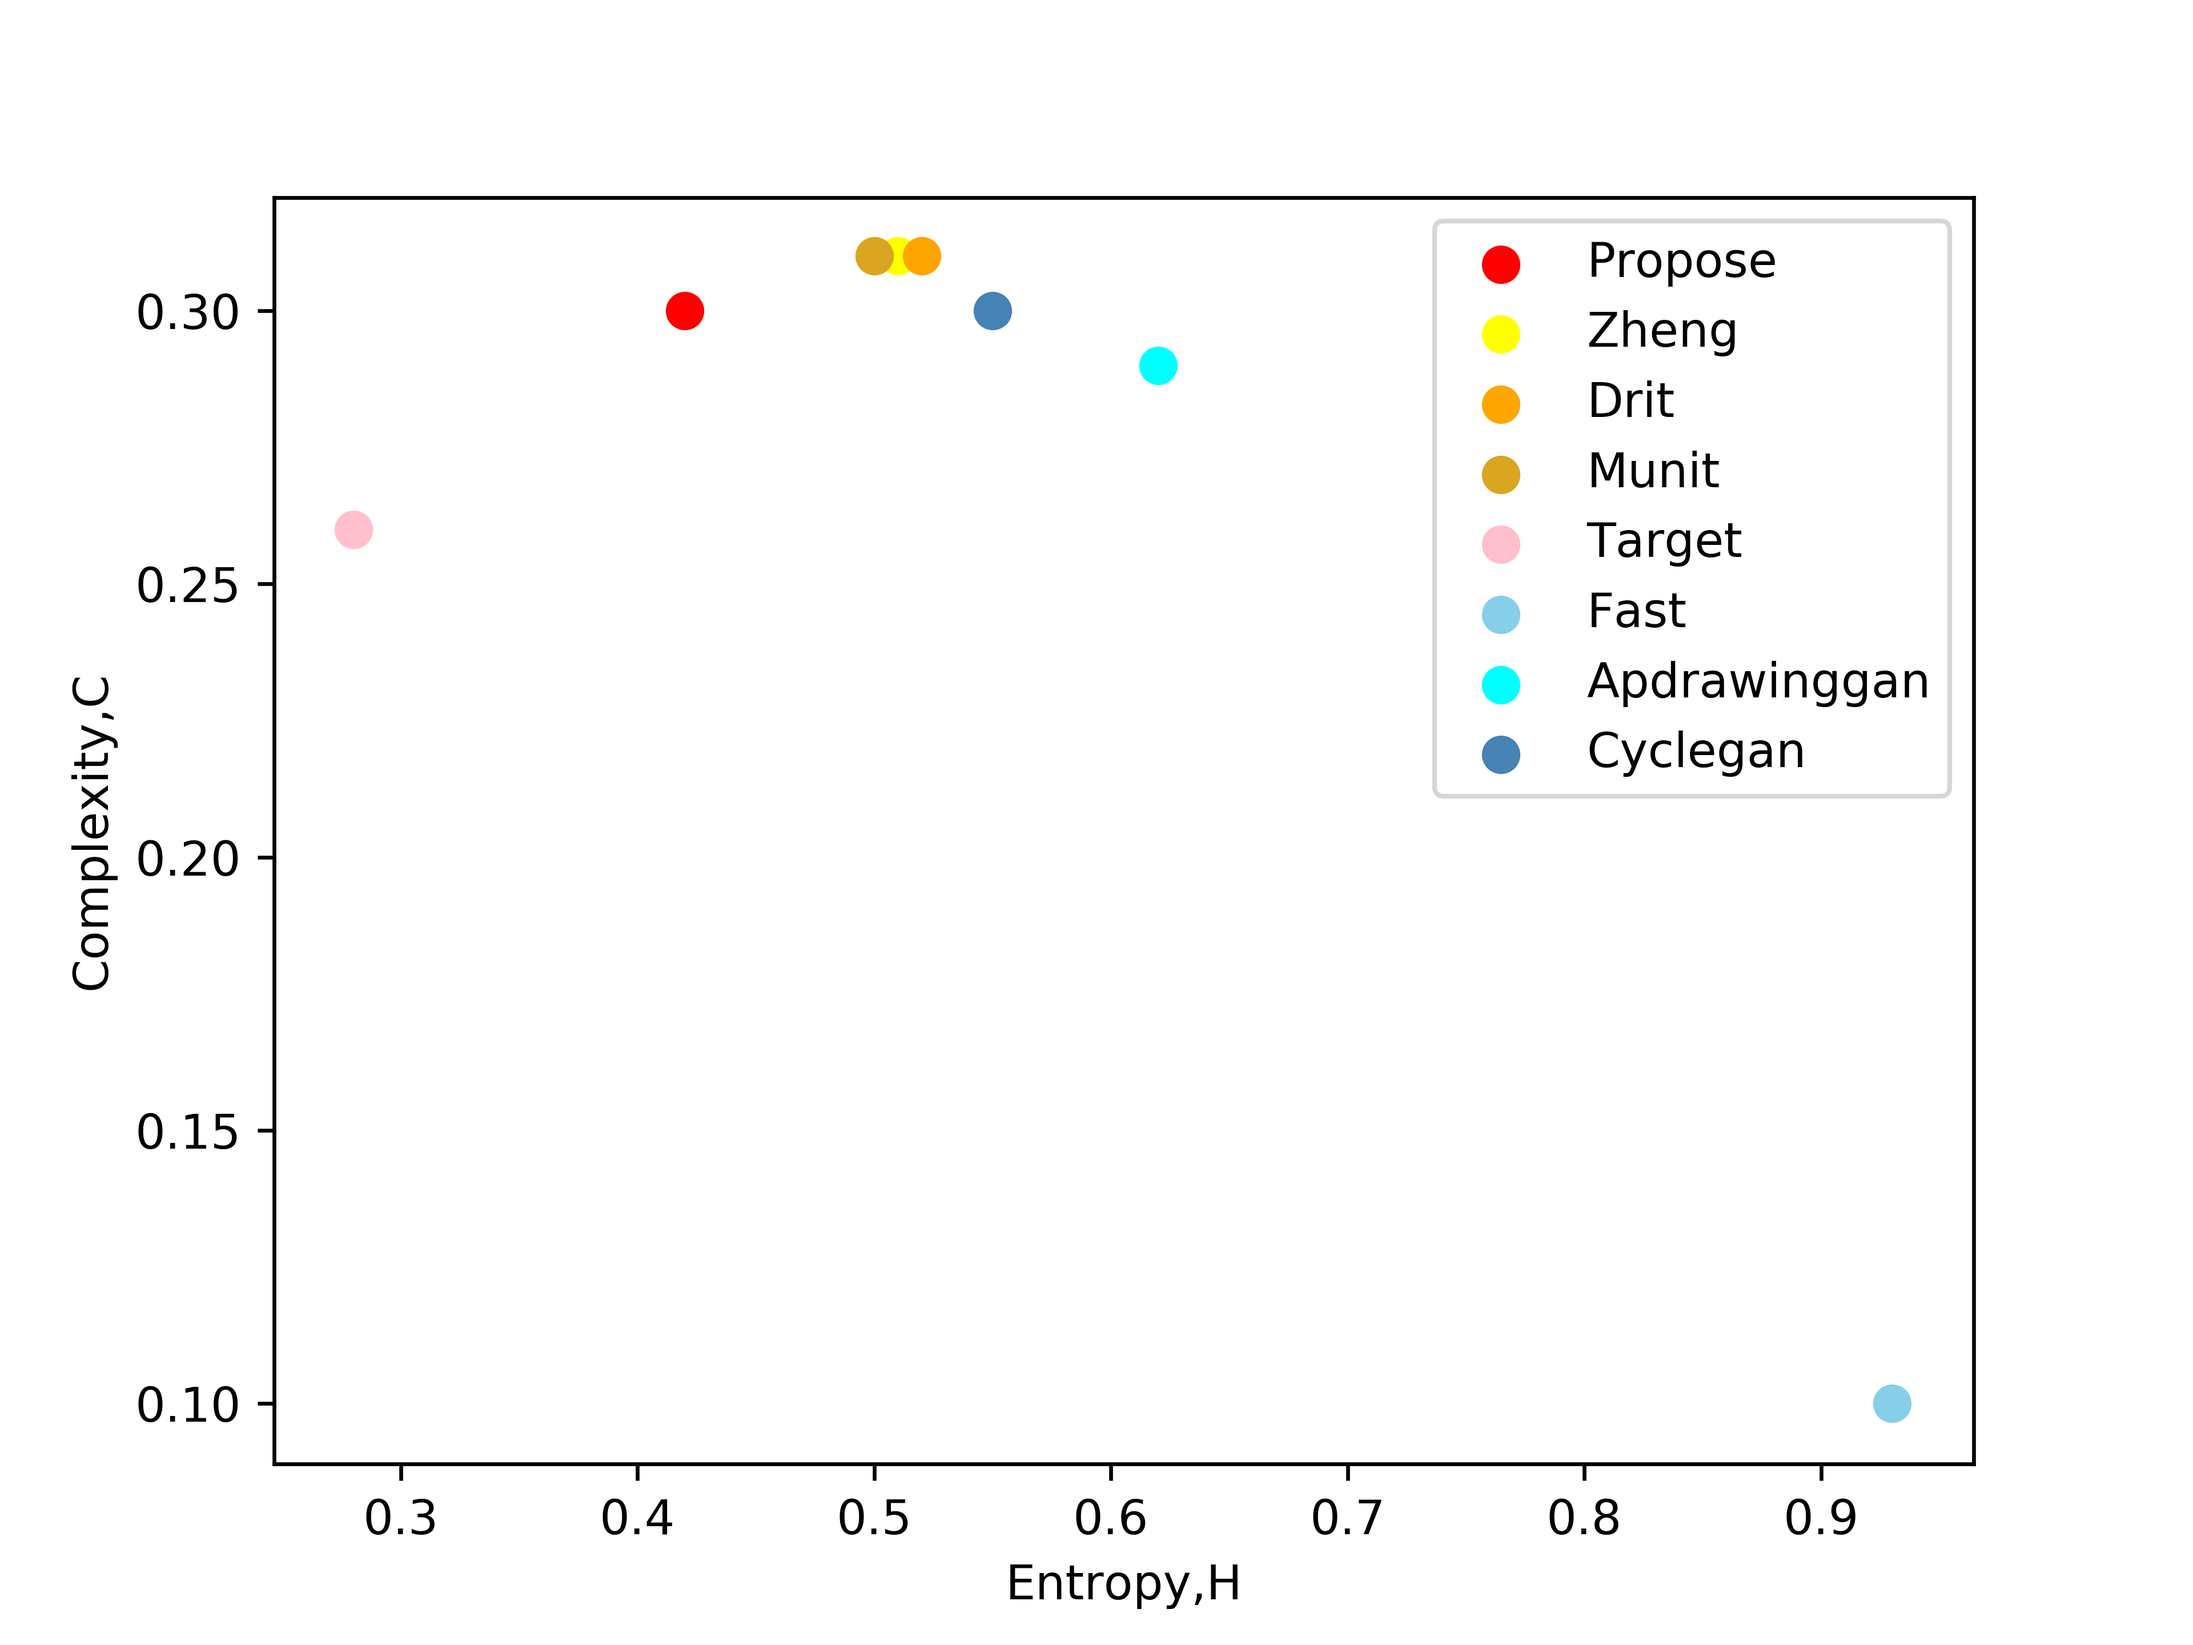
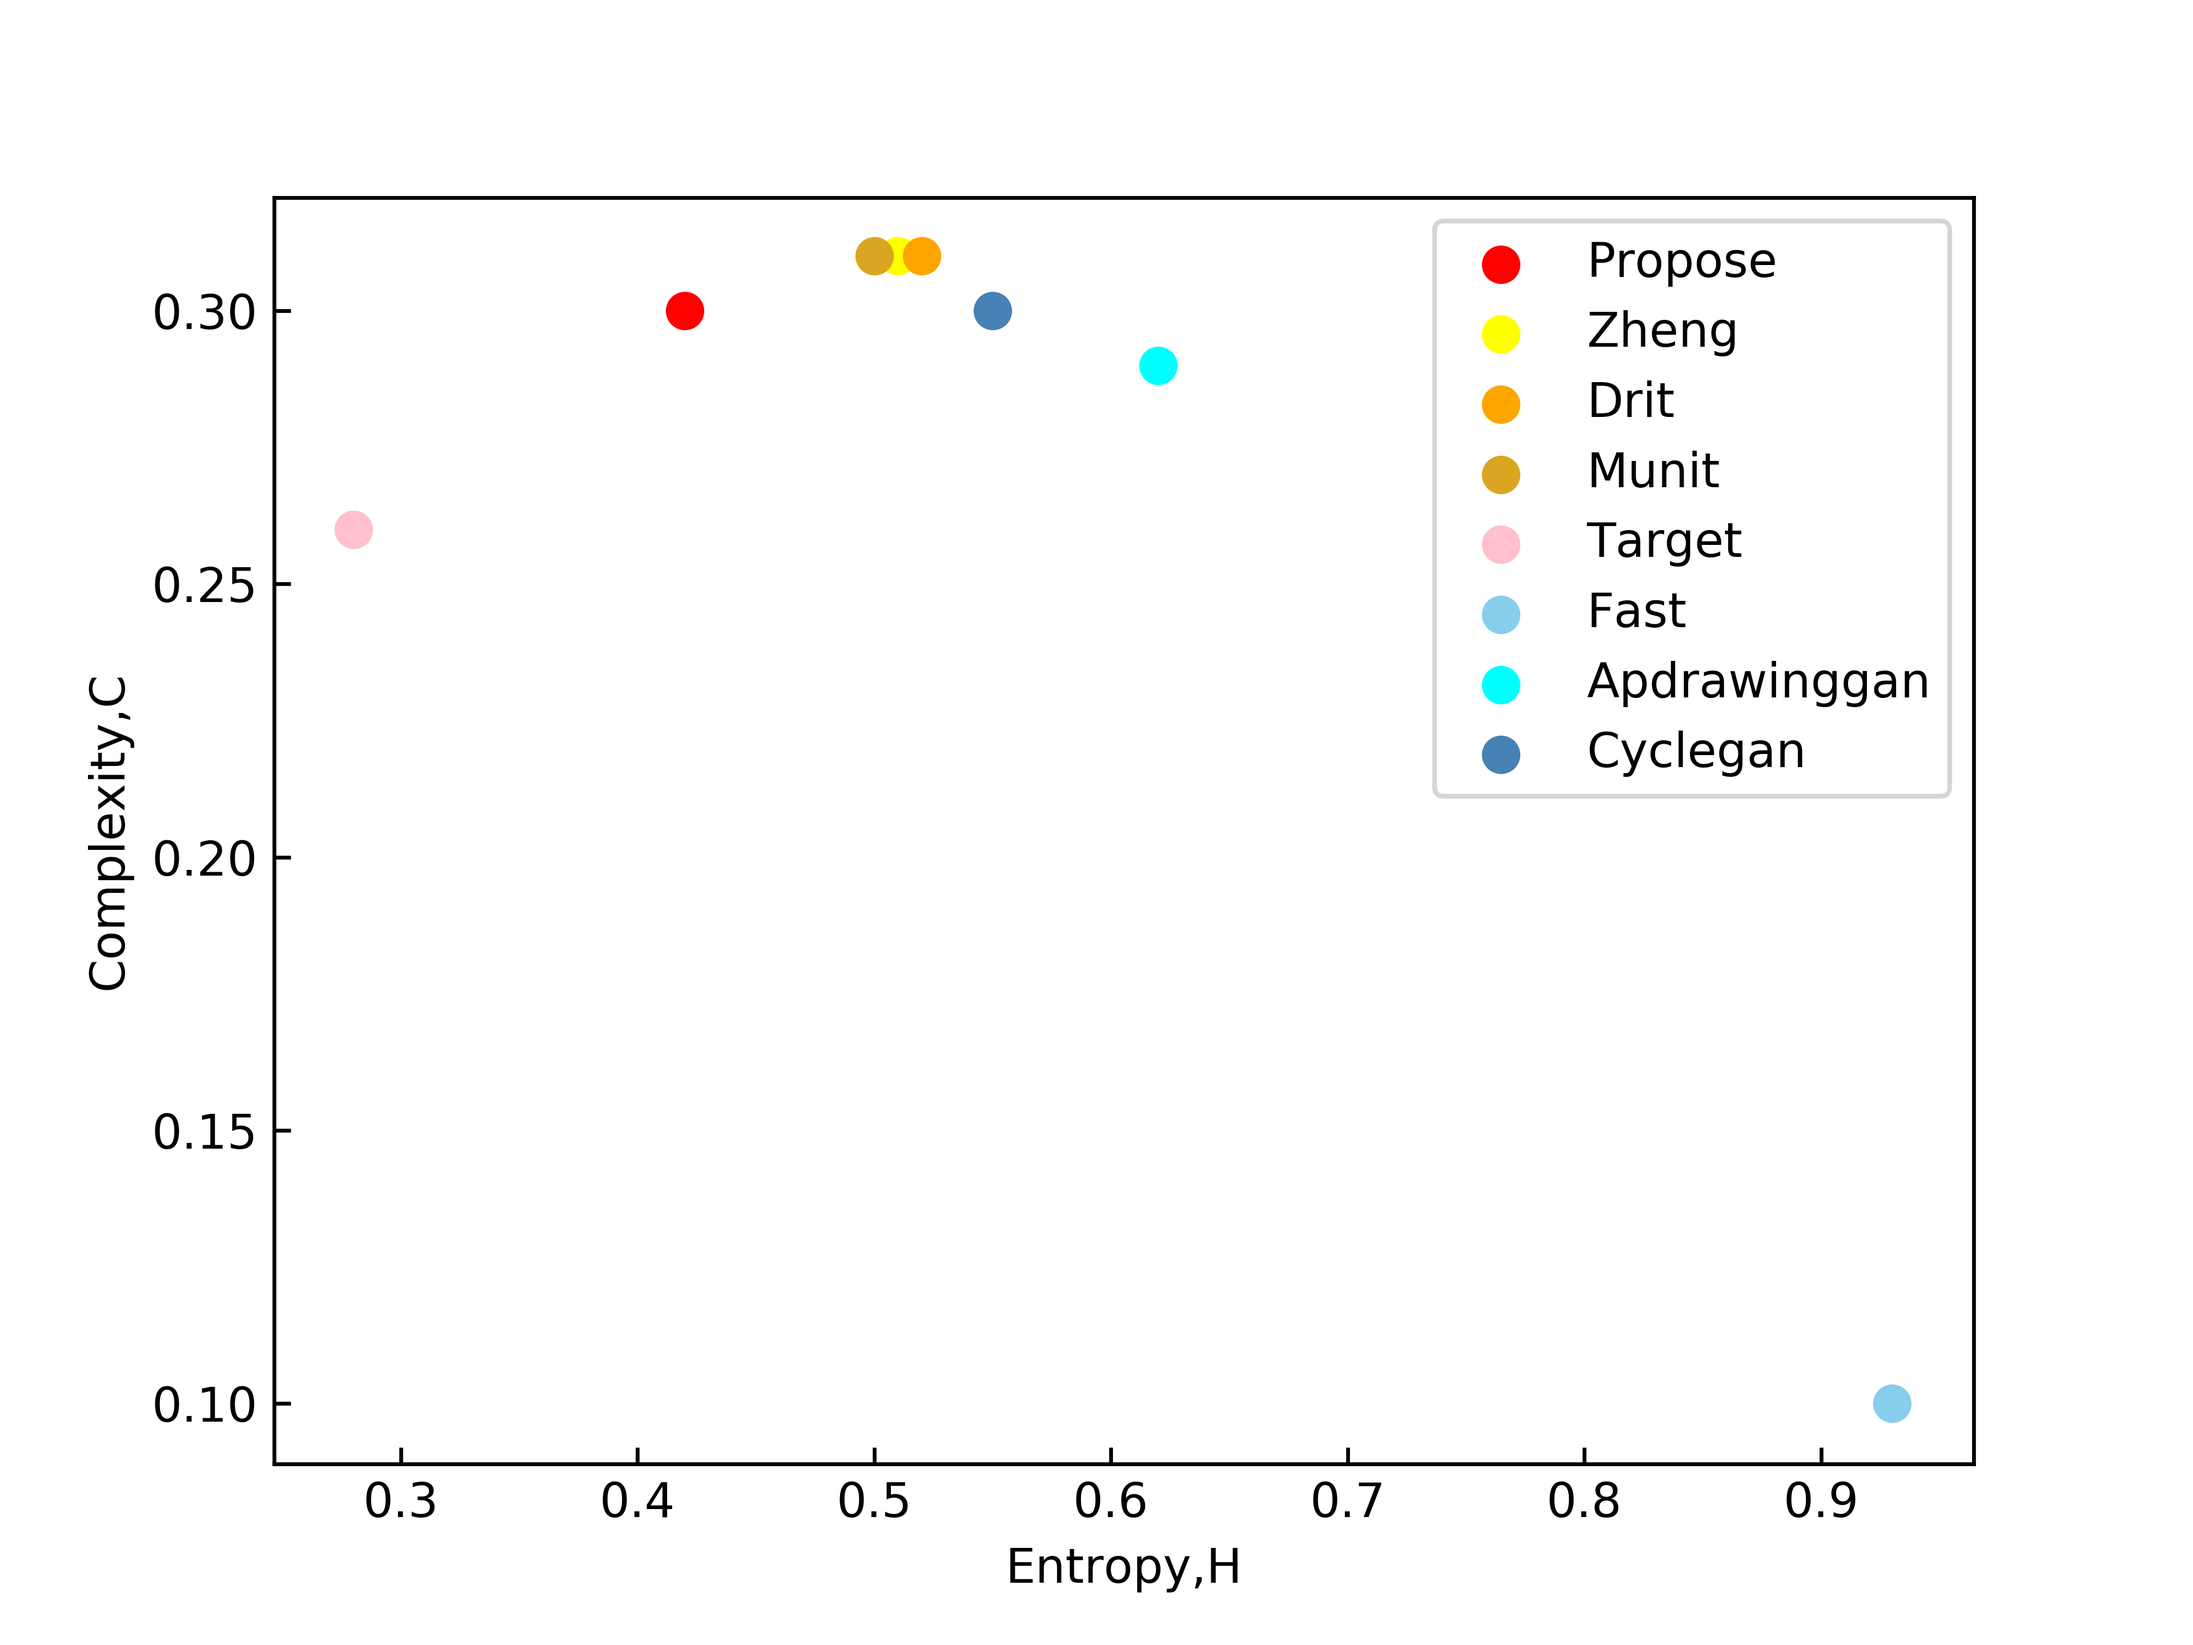
update print code

diff --git a/complexity-entropy_plane/PrintFig.py b/complexity-entropy_plane/PrintFig.py
@@ -16,10 +16,11 @@ f.close()
 cnt = len(m)
 # color_map = ['red','yellow','orange','goldenrod','pink','skyblue','cyan','steelblue']
 color_map = ['#FF0000','#FFFF00','#FFA500','#DAA520','#FFC0CB','#87CEEB','#00FFFF','#4682B4']
-
 e = np.array(e)
 c = np.array(c)
 
+plt.rcParams['xtick.direction'] = 'in'
+plt.rcParams['ytick.direction'] = 'in'
 for i in range(cnt): 
     plt.scatter(e[i], c[i], marker = 'o', color = color_map[i], s = 50, label = m[i]) 
     
